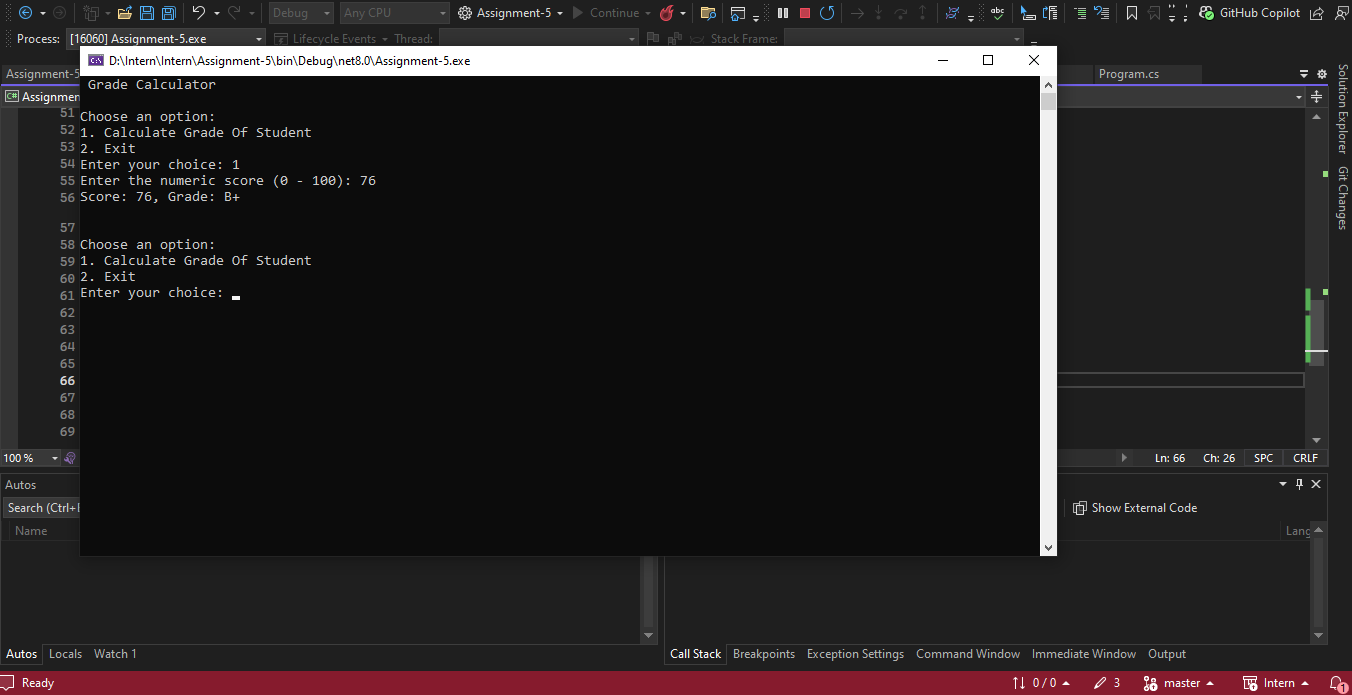
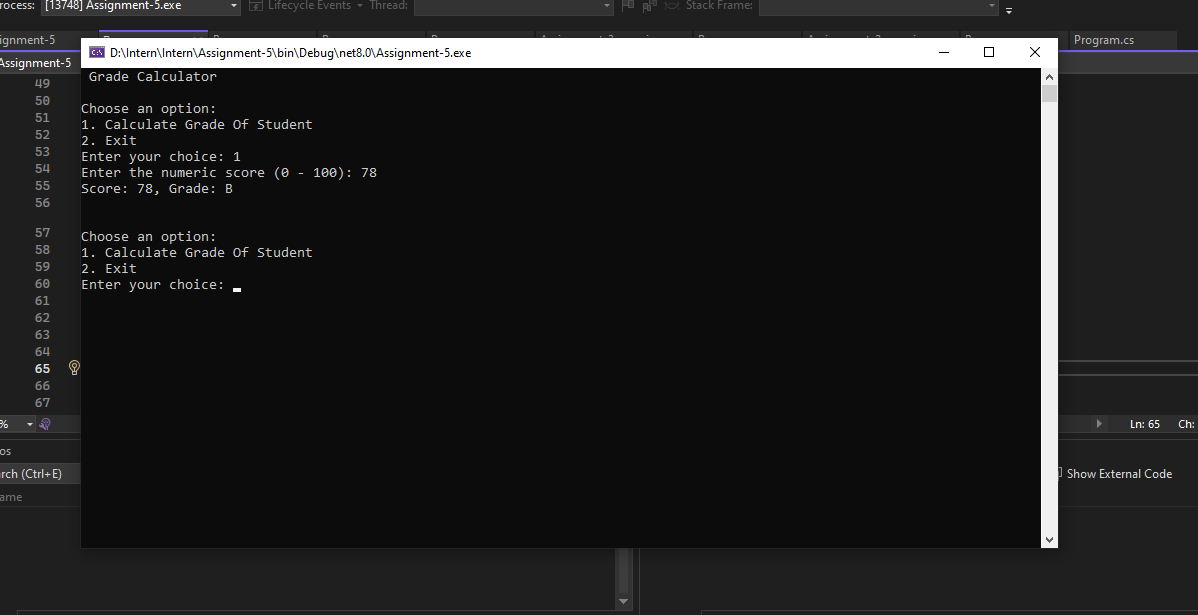
Created a Grade Calculator program by converting numeric scores to letter grades (A, B, C, D, F)

diff --git a/Assignment-5/Program.cs b/Assignment-5/Program.cs
@@ -57,12 +57,11 @@ class GradeCalculator
     static string GetLetterGrade(int gradeScore)
     {
         if (gradeScore >= 90 && gradeScore <= 100) return "A+";
-        else if (gradeScore >= 80 && gradeScore <= 89) return "A-";
-        else if (gradeScore >= 70 && gradeScore <= 79) return "B+";
-        else if (gradeScore >= 60 && gradeScore <= 69) return "B-";
-        else if (gradeScore >= 50 && gradeScore <= 59) return "C+";
-        else if (gradeScore >= 40 && gradeScore <= 49) return "C-";
-        else if (gradeScore >= 30 && gradeScore <= 39) return "D+";
-        else return "D-";
+        else if (gradeScore >= 80 && gradeScore <= 89) return "A";
+        else if (gradeScore >= 70 && gradeScore <= 79) return "B";
+        else if (gradeScore >= 60 && gradeScore <= 69) return "B";
+        else if (gradeScore >= 50 && gradeScore <= 59) return "C";
+        else if (gradeScore >= 40 && gradeScore <= 49) return "D";
+        else return "F";
     }
 }
